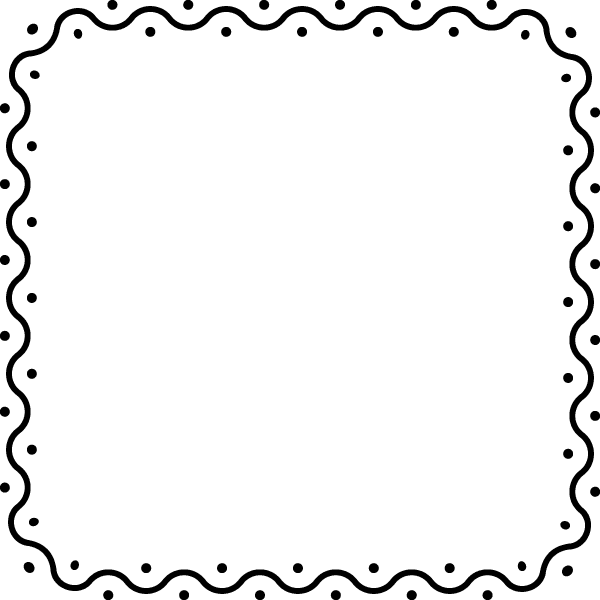
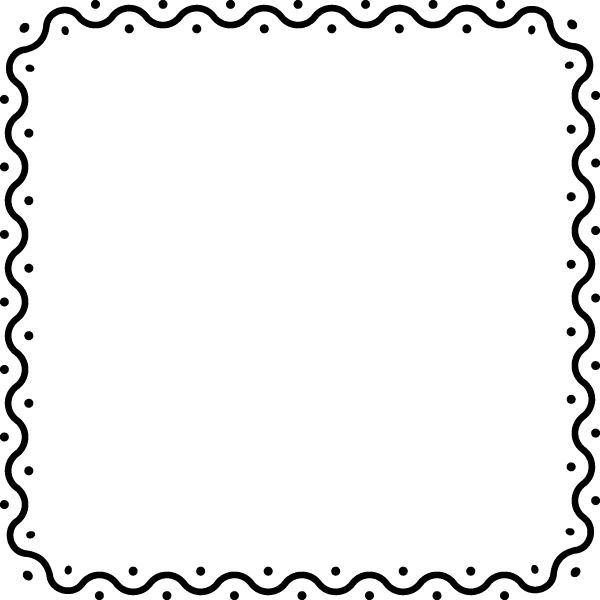
updated border image css

Changed region(s): [[0.0, 0.0, 1.0, 1.0]]

diff --git a/src/styles/global.less b/src/styles/global.less
@@ -384,7 +384,6 @@ body {
 }
 
 // post border 
-
 .bordered {
     position: relative;
     padding: 32px !important;
@@ -396,14 +395,35 @@ body {
         left: 0;
         width: 100%;
         height: 100%;
-        border-image-source: url('/images/decor/border_pattern_3.png');
-        border-image-slice: 20%;
-        border-image-width: 71px;
         border-image-outset: 0;
         border-image-repeat: repeat;
         filter: var(--accentFilter);
         opacity: var(--opacity);
         transition: 0.3s ease;
+    }
+
+    &.pattern-1::before {
+        border-image-source: url('/images/decor/border_pattern_1.png');
+        border-image-slice: 16.2%;
+        border-image-width: 60.5px;
+    }
+
+    &.pattern-2::before {
+        border-image-source: url('/images/decor/border_pattern_2.png');
+        border-image-slice: 15.9% 15.5% 15.9% 15.5%;
+        border-image-width: 60.5px;
+    }
+
+    &.pattern-3::before {
+        border-image-source: url('/images/decor/border_pattern_3.png');
+        border-image-slice: 20%;
+        border-image-width: 71px;
+    }
+
+    &.pattern-4::before {
+        border-image-source: url('/images/decor/border_pattern_4.png');
+        border-image-slice: 20%;
+        border-image-width: 71px;
     }
 
     &:hover,
